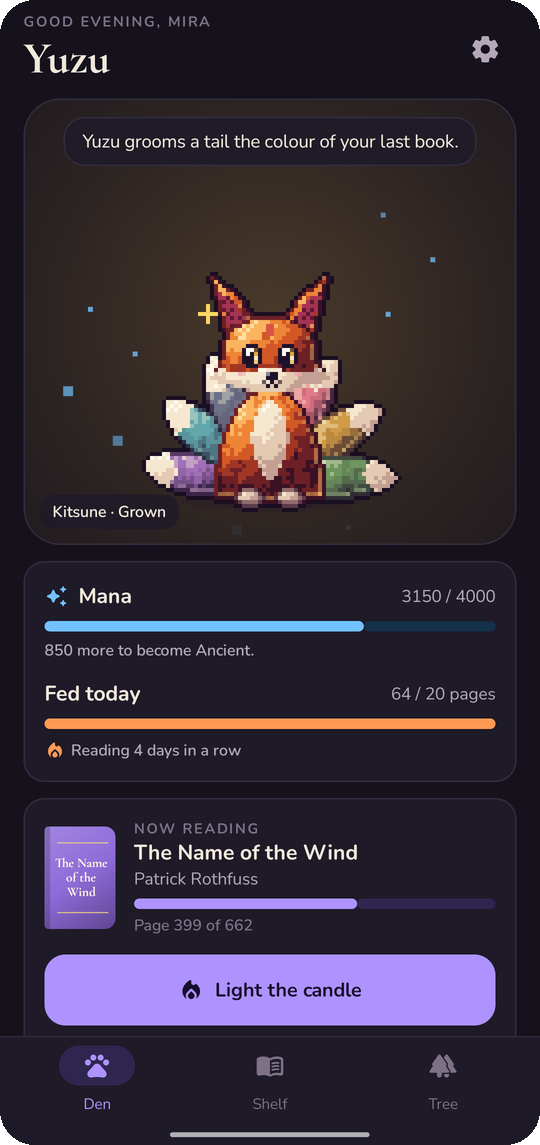
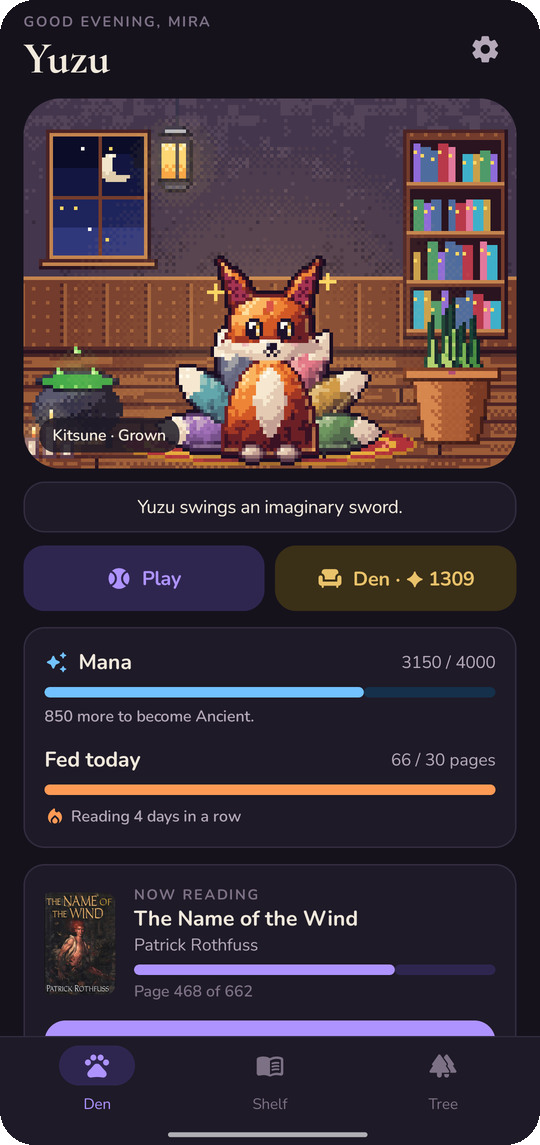
Wait for all data before drawing the den; fresh screenshots and docs for 1.0.0

diff --git a/app/src/main/java/app/familiar/ui/Root.kt b/app/src/main/java/app/familiar/ui/Root.kt
@@ -136,11 +136,13 @@ fun FamiliarRoot(settings: Settings, dim: (Boolean) -> Unit) {
 
     val dao = container.db.dao()
     val books by dao.observeBooks().collectAsStateWithLifecycle(initialValue = null)
-    val readings by dao.observeReadings().collectAsStateWithLifecycle(initialValue = emptyList())
-    val pets by dao.observePets().collectAsStateWithLifecycle(initialValue = emptyList())
+    val readings by dao.observeReadings().collectAsStateWithLifecycle(initialValue = null)
+    val pets by dao.observePets().collectAsStateWithLifecycle(initialValue = null)
+    // Nothing is drawn from the database until all of it has arrived, so an empty den never flashes by.
+    val loaded = books != null && readings != null && pets != null
     val minute = rememberNow(60_000)
     val data = remember(books, readings, pets, settings, minute) {
-        FamiliarData(books.orEmpty(), readings, pets, settings, System.currentTimeMillis())
+        FamiliarData(books.orEmpty(), readings.orEmpty(), pets.orEmpty(), settings, System.currentTimeMillis())
     }
     val entry by nav.currentBackStackEntryAsState()
     val route = entry?.destination?.route
@@ -175,7 +177,7 @@ fun FamiliarRoot(settings: Settings, dim: (Boolean) -> Unit) {
         composable("welcome") {
             OnboardingScreen { nav.navigate("main") { popUpTo("welcome") { inclusive = true } } }
         }
-        composable("main") { MainTabs(tab, { tab = it }, go, data) }
+        composable("main") { if (loaded) MainTabs(tab, { tab = it }, go, data) else Box(Modifier.fillMaxSize().background(U.c.bg)) }
         composable("ritual/{id}", arguments = listOf(navArgument("id") { type = NavType.LongType })) { e ->
             RitualScreen(e.arguments?.getLong("id") ?: 0L, data, go, dim)
         }
@@ -198,7 +200,7 @@ fun FamiliarRoot(settings: Settings, dim: (Boolean) -> Unit) {
         composable("settings") { SettingsScreen(data, onBack = { go.back() }) }
     }
 
-    if (settings.onboarded && books != null && route == "main") Celebrations(data)
+    if (settings.onboarded && loaded && route == "main") Celebrations(data)
 }
 
 /** A hatching, a new stage, a newly found familiar: each celebrated once. */

diff --git a/tools/shots.py b/tools/shots.py
@@ -13,8 +13,8 @@ from pathlib import Path
 from PIL import Image, ImageDraw, ImageFilter
 
 STATUS = 110  # status bar height at 1080 px wide
-OVERVIEW = ["den", "ritual", "feast", "bestiary"]
-SINGLE = ["den", "ritual", "feast", "bestiary", "shelf", "grimoire", "tree", "saga"]
+OVERVIEW = ["den", "ritual", "furnish", "saga"]
+SINGLE = ["den", "ritual", "feast", "bestiary", "furnish", "shelf", "tree", "saga"]
 
 NIGHT = (21, 18, 28)
 VIOLET = (52, 36, 96)

diff --git a/README.md b/README.md
@@ -15,9 +15,9 @@
 ![Languages](https://img.shields.io/badge/lang-EN%20%7C%20RU-AE93FF)
 [![License: MIT](https://img.shields.io/badge/license-MIT-15121C)](LICENSE)
 
-**English** · [Русский](README.ru.md) · [Changelog](CHANGELOG.md)
+**English** · [Русский](README.ru.md) · [Website](https://bigdevwhale.github.io/stillcraft/apps/familiar/) · [Changelog](CHANGELOG.md)
 
-<img src="docs/screenshots/overview.png" alt="Familiar on a phone: the den with a kitsune, the reading candle, the feast after a sitting and the bestiary" width="100%" />
+<img src="docs/screenshots/overview.png" alt="Familiar on a phone: the den with a kitsune, the reading candle, furnishing the den and the saga of the year" width="100%" />
 
 </div>
 
@@ -44,25 +44,55 @@ All the art is pixel art painted by the app itself (shaded shapes, hue-shifted r
 | 🦉 | **Owlbear** | non-fiction and history | spectacles, then a scholar's mantle |
 | 🦋 | **Moon moth** | reading after ten at night | a star on its wings for every night of reading |
 
-Three can hatch at the start; the other five are found by reading (a 400-page book, five late nights, seven days in a row, a non-fiction or history book, a comeback after a pause).
+Three can hatch at the start; the other five are found by reading (a 400-page book, five late nights, seven days in a row, a non-fiction or history book, a comeback after a pause). About one egg in sixteen hatches **shining**, in a rare colouring: a moonlit kitsune, an ice phoenix, a snowy owlbear.
+
+## The den
+
+<img src="docs/den.png" alt="The den: a moonlit window, a lantern, a bookshelf, a cauldron and a mandrake around the kitsune" width="50%" align="right" />
+
+Your familiar lives in a little pixel room. Every mana it ever ate leaves a **spark**, and sparks buy furniture: a window with the real day or night in it, stained glass, a bookshelf filled with the colours of your finished books, a bubbling cauldron, a mandrake that peeks out of its pot, a telescope, fairy lights, rugs, candles, a lantern. Spending sparks never takes anything from growth.
+
+Stroke the familiar and it squeezes its eyes shut and purrs; toss it a ball of yarn once a day. After midnight it sleeps and snores, and a tap wakes it for a sleepy moment.
+
+<br clear="right" />
 
 ## What's inside
 
 | | Feature | How it works |
 |---|---|---|
-| 🕯 | **The ritual** | A candle that burns down while you read, a big "turn the page" button with a rustle, a synthesised fireplace or rain. Lay the phone face down and the familiar dozes on your lap; quiet time feeds a bonus. |
+| 🕯 | **The ritual** | A candle that burns down while you read, a big "turn the page" button with a rustle, or just read and say where you stopped at the end. A synthesised fireplace or rain. Lay the phone face down and the familiar dozes on your lap; quiet time feeds a bonus. |
+| 🎧 | **Audiobooks** | Counted in minutes: a gramophone turns instead of a candle, and every minute listened counts by itself. |
 | ✍ | **Log pages** | Read on the train? Tell it where you stopped and it eats those pages too. |
 | 🍖 | **The feast** | After each sitting: pages, candlelight, stillness, the familiar's favourite, a finished book. Too many pages in too little time and it sniffs at them suspiciously. |
 | 🎭 | **Moods** | After horror it trembles, after romance it blushes, after a mystery it squints, after non-fiction it puts on spectacles. |
-| 🔎 | **Find a book** | Search Open Library (Google Books as a fallback) by title or author: the title, author, pages and the real cover fill in. Covers are kept on the phone. Or type it all by hand and get a cover drawn in the genre's colour. |
+| 🔎 | **Find a book** | Search Open Library (Google Books as a fallback) by title or author: the title, author, pages and the real cover fill in. Covers are kept on the phone. Or type it in and get a cover drawn in the genre's colour. |
+| 📚 | **Cycles** | Give books a cycle and a volume number; the volumes gather together, and reading the whole cycle earns a reward. |
 | 🌳 | **Tree of stories** | Every finished book grows a glowing fruit in its genre's colour. Tap one to open the book. |
+| 🎯 | **Goal for the year** | How many books this year, with how far ahead of or behind the pace you are. |
 | ⚔ | **The guild** | Three monthly errands, the same for every reader, none of them a must. |
-| 📖 | **Saga** | Your year of reading told as a legend, ready to share. |
+| 📖 | **Saga** | Your year told as a legend, with a square for every day of reading, ready to share. |
 | 🔔 | **Reminder and widget** | An evening line from your familiar, quiet on days you've read; a home-screen widget with the familiar and today's pages. |
+
+<table>
+  <tr>
+    <td><img src="docs/screenshots/den.png" alt="The den" /></td>
+    <td><img src="docs/screenshots/ritual.png" alt="The ritual" /></td>
+    <td><img src="docs/screenshots/feast.png" alt="The feast" /></td>
+    <td><img src="docs/screenshots/bestiary.png" alt="The bestiary" /></td>
+  </tr>
+  <tr>
+    <td><img src="docs/screenshots/furnish.png" alt="Furnishing the den" /></td>
+    <td><img src="docs/screenshots/shelf.png" alt="Cycles on the shelf" /></td>
+    <td><img src="docs/screenshots/tree.png" alt="The tree of stories" /></td>
+    <td><img src="docs/screenshots/saga.png" alt="The saga of the year" /></td>
+  </tr>
+</table>
 
 ## Download
 
-Get **Familiar.apk** from the [latest release](https://github.com/bigdevwhale/familiar/releases/latest) and open it on your phone. Android 8.0 or newer.
+Get **Familiar.apk** from the [latest release](https://github.com/bigdevwhale/familiar/releases/latest) and open it on your phone (allow installing from your browser or file manager when asked). Android 8.0 or newer.
+
+Some phones (Xiaomi, Huawei, Samsung) stop apps in the background: allow autostart and lift battery limits for Familiar so the evening reminder arrives.
 
 ## Privacy
 
@@ -77,7 +107,7 @@ No account, no ads, no analytics. The app goes online only when you search for a
 ./gradlew testDebugUnitTest -Prender --tests '*RenderArt*'   # sprite sheets to app/build/art, launcher icons
 ```
 
-The sprites live in `app/src/main/java/app/familiar/ui/pix`: `Pix.kt` is the shading toolkit, `Sprites.kt` holds the eight familiars and their eggs, `Scenes.kt` the candle and the tree.
+The sprites live in `app/src/main/java/app/familiar/ui/pix`: `Pix.kt` is the shading toolkit, `Sprites.kt` holds the eight familiars and their eggs, `Room.kt` the den and its furniture, `Scenes.kt` the candle, the gramophone and the tree.
 
 ## License
 

diff --git a/README.ru.md b/README.ru.md
@@ -8,9 +8,9 @@
 
 *Трекер чтения с пиксельным питомцем. Каждая прочитанная страница — мана; фамильяр её ест, вылупляется, растёт и учится. Бесплатно, без рекламы и аккаунта.*
 
-[English](README.md) · **Русский** · [Изменения](CHANGELOG.md)
+[English](README.md) · **Русский** · [Сайт](https://bigdevwhale.github.io/stillcraft/apps/familiar/) · [Изменения](CHANGELOG.md)
 
-<img src="docs/screenshots/overview.png" alt="Фамильяр на телефоне: логово с кицунэ, свеча ритуала, пир после чтения и бестиарий" width="100%" />
+<img src="docs/screenshots/overview.ru.png" alt="Фамильяр на телефоне: логово с кицунэ, свеча ритуала, обустройство логова и сага года" width="100%" />
 
 </div>
 
@@ -37,21 +37,49 @@
 | 🦉 | **Совомедведь** | нон-фикшн и историю | очки, потом мантия учёного |
 | 🦋 | **Лунный мотылёк** | чтение после десяти вечера | звезда на крыльях за каждую ночь чтения |
 
-Трое могут вылупиться в начале; остальных пятерых находишь, читая.
+Трое могут вылупиться в начале; остальных пятерых находишь, читая. Примерно одно яйцо из шестнадцати вылупляется **сияющим**, в редком окрасе: лунная кицунэ, ледяной феникс, снежный совомедведь.
+
+## Логово
+
+<img src="docs/den.png" alt="Логово: окно с луной, фонарь, книжный шкаф, котёл и мандрагора вокруг кицунэ" width="50%" align="right" />
+
+Фамильяр живёт в маленькой пиксельной комнате. Каждая съеденная мана оставляет **искру**, а искры покупают мебель: окно с настоящими днём и ночью, витраж, шкаф с корешками цвета твоих дочитанных книг, котёл с зельем, мандрагору, которая выглядывает из горшка, телескоп, гирлянду, ковры, свечи, фонарь. Росту это не мешает.
+
+Погладь фамильяра, и он зажмурится и замурлычет; раз в день можно бросить ему клубок. После полуночи он спит и сопит, а если тапнуть, сонно приоткроет глаз.
+
+<br clear="right" />
 
 ## Что внутри
 
-- **Ритуал:** свеча сгорает, пока ты читаешь; большая кнопка «перевернуть страницу» с шелестом; камин или дождь. Телефон экраном вниз — фамильяр дремлет у тебя на коленях, а тихое время даёт бонус.
+- **Ритуал:** свеча сгорает, пока ты читаешь; кнопка «перевернуть страницу» с шелестом или просто чтение и страница в конце; камин или дождь. Телефон экраном вниз — фамильяр дремлет у тебя на коленях, а тихое время даёт бонус.
+- **Аудиокниги** в минутах: вместо свечи крутится граммофон, и каждая минута засчитывается сама.
 - **Записать страницы**, прочитанные без приложения.
 - **Пир** после чтения с подсчётом маны; если страниц подозрительно много, фамильяр принюхивается.
 - **Настроение** от жанра: дрожит после ужасов, краснеет после романа, щурится после детектива.
 - **Поиск книги** в Open Library (запасной вариант — Google Books): название, автор, страницы и настоящая обложка. Обложки хранятся на телефоне; без поиска рисуется обложка цвета жанра.
-- **Древо историй** с плодом за каждую книгу, **гильдия** с тремя поручениями на месяц, **сага** года.
+- **Циклы:** укажи у книги цикл и номер тома, тома соберутся вместе, а за весь цикл — награда.
+- **Древо историй** с плодом за каждую книгу, **цель на год** с графиком, **гильдия** с тремя поручениями на месяц.
+- **Сага** года с квадратиком за каждый день чтения.
 - Вечернее напоминание от лица фамильяра и виджет на главный экран.
+
+<table>
+  <tr>
+    <td><img src="docs/screenshots/den.ru.png" alt="Логово" /></td>
+    <td><img src="docs/screenshots/ritual.ru.png" alt="Ритуал" /></td>
+    <td><img src="docs/screenshots/feast.ru.png" alt="Пир" /></td>
+    <td><img src="docs/screenshots/bestiary.ru.png" alt="Бестиарий" /></td>
+  </tr>
+  <tr>
+    <td><img src="docs/screenshots/furnish.ru.png" alt="Обустройство логова" /></td>
+    <td><img src="docs/screenshots/shelf.ru.png" alt="Циклы на полке" /></td>
+    <td><img src="docs/screenshots/tree.ru.png" alt="Древо историй" /></td>
+    <td><img src="docs/screenshots/saga.ru.png" alt="Сага года" /></td>
+  </tr>
+</table>
 
 ## Скачать
 
-**Familiar.apk** в [последнем релизе](https://github.com/bigdevwhale/familiar/releases/latest). Android 8.0 и новее.
+**Familiar.apk** в [последнем релизе](https://github.com/bigdevwhale/familiar/releases/latest). Android 8.0 и новее. На Xiaomi, Huawei и Samsung разреши автозапуск и сними ограничения батареи, чтобы приходило вечернее напоминание.
 
 ## Приватность
 

diff --git a/CHANGELOG.md b/CHANGELOG.md
@@ -4,10 +4,11 @@
 
 The first release of Familiar: a reading tracker with a pixel-art familiar that feeds on stories.
 
-- **Eight familiars** in rich pixel art painted on the phone: the mimic, kitsune and slime (the three you can hatch first), and the dragon, phoenix, griffin, owlbear and moon moth (found by reading). Five stages from egg to ancient, each familiar with its own favourite kind of reading.
-- **They show what you read:** the kitsune grows a tail for every genre, the dragon sits on a hoard of finished books, the moth's wings fill with a star for every night, the slime keeps what you named inside.
+- **Eight familiars** in rich pixel art painted on the phone: the mimic, kitsune and slime (the three you can hatch first), and the dragon, phoenix, griffin, owlbear and moon moth (found by reading). Five stages from egg to ancient, each familiar with its own favourite kind of reading. About one egg in sixteen hatches shining, in a rare colouring.
+- **They show what you read:** the kitsune grows a tail for every genre, the dragon sits on a hoard of finished books, the moth's wings fill with a star for every night, the slime keeps what you named inside. Moods follow the last genre read.
 - **The spell of forgetting:** two quiet days and the familiar starts turning to stone from the paws up; the phoenix burns to ash instead. A few pages break the spell.
-- **The ritual:** a candle that burns while you read, a page counter with a rustle, a synthesised fireplace or rain, and a stillness bonus while the phone lies face down. Or log pages read elsewhere.
-- **The feast** after each sitting and moods after each genre.
+- **The den:** a pixel room furnished with sparks (one for every mana ever eaten), sixteen pieces from a moonlit window to a bubbling cauldron. Stroke the familiar to make it purr, toss it yarn once a day; it sleeps after midnight.
+- **The ritual:** a candle that burns while you read, a page counter with a rustle or the page at the end, a synthesised fireplace or rain, and a stillness bonus while the phone lies face down. Audiobooks count minutes with a gramophone. Or log pages read elsewhere.
 - **Find a book** in Open Library (Google Books as a fallback): title, author, pages and the real cover, kept on the phone. Or a cover drawn in the genre's colour.
-- **The tree of stories**, three monthly guild errands, the saga of your year, an evening reminder told by the familiar, a home-screen widget, JSON backup, English and Russian, parchment and candlelight themes.
+- **Cycles** of books with a reward for reading them all, the tree of stories, a goal for the year with pace, three monthly guild errands and the saga of your year with a square for every day.
+- An evening reminder told by the familiar, a home-screen widget, JSON backup, English and Russian, parchment and candlelight themes.
